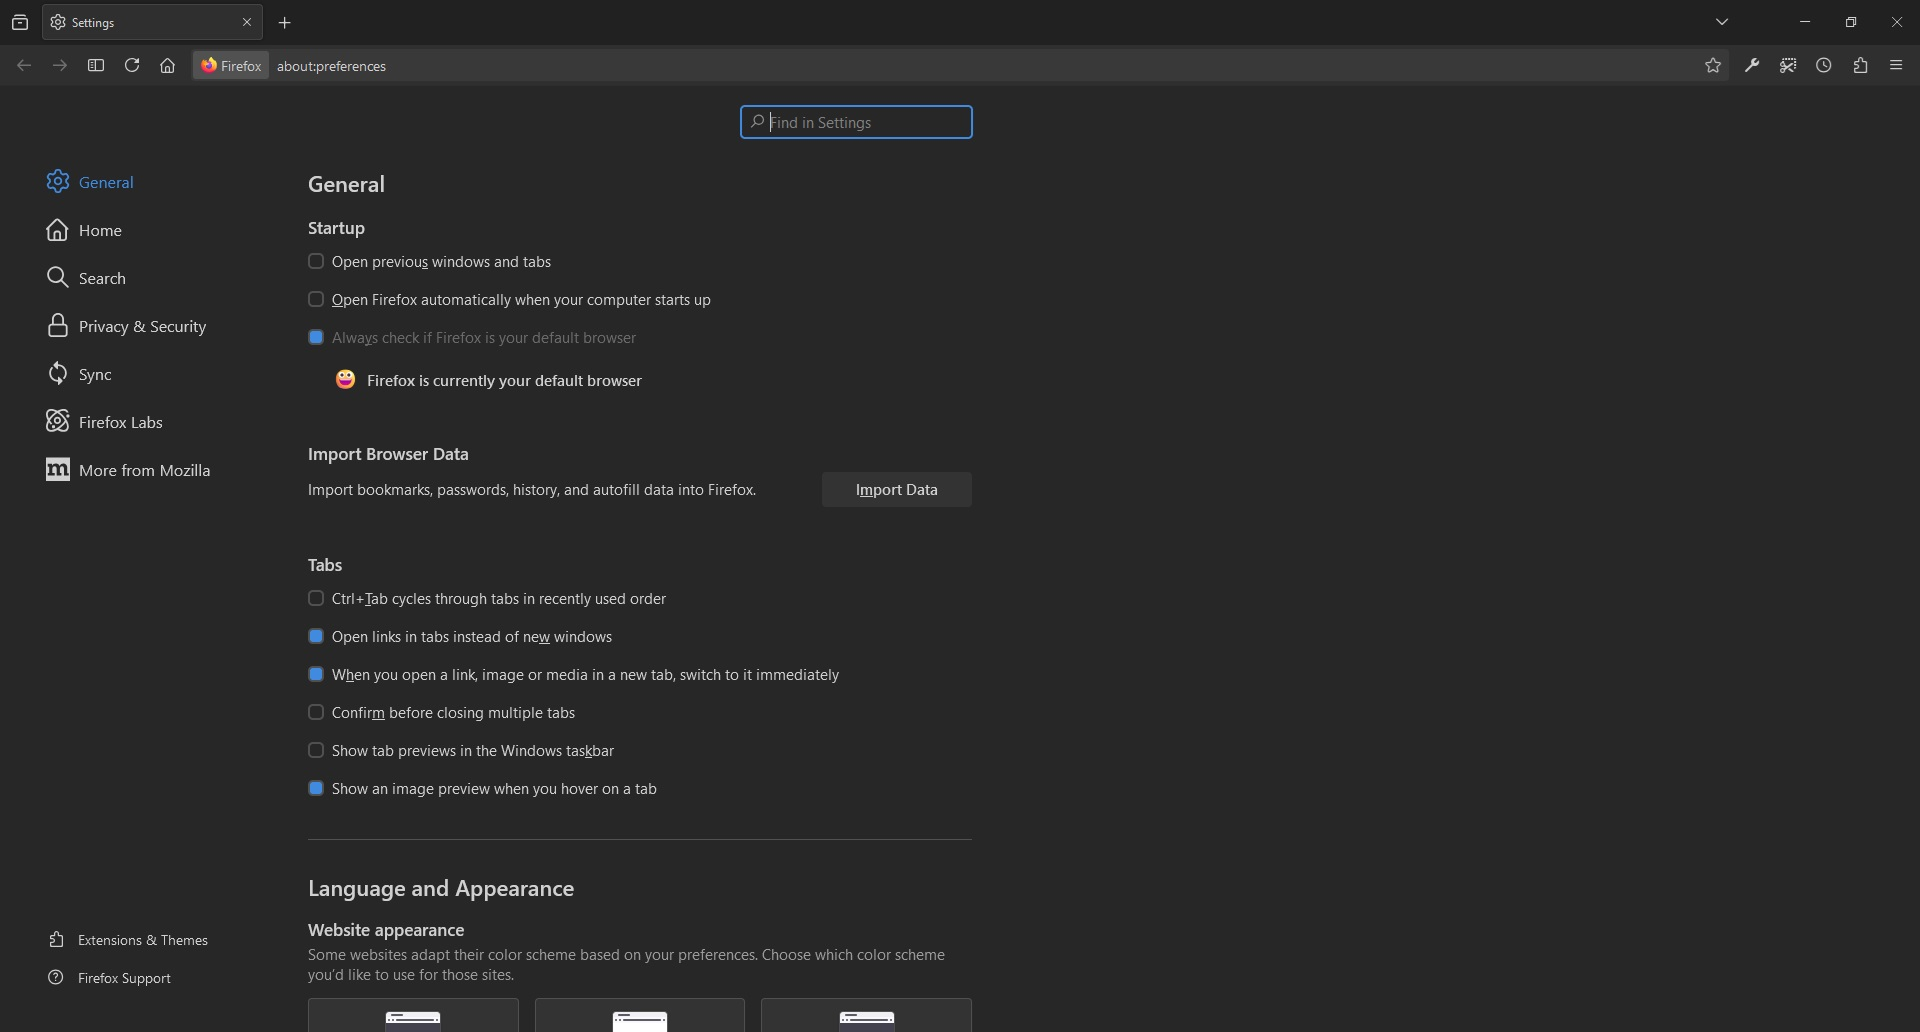
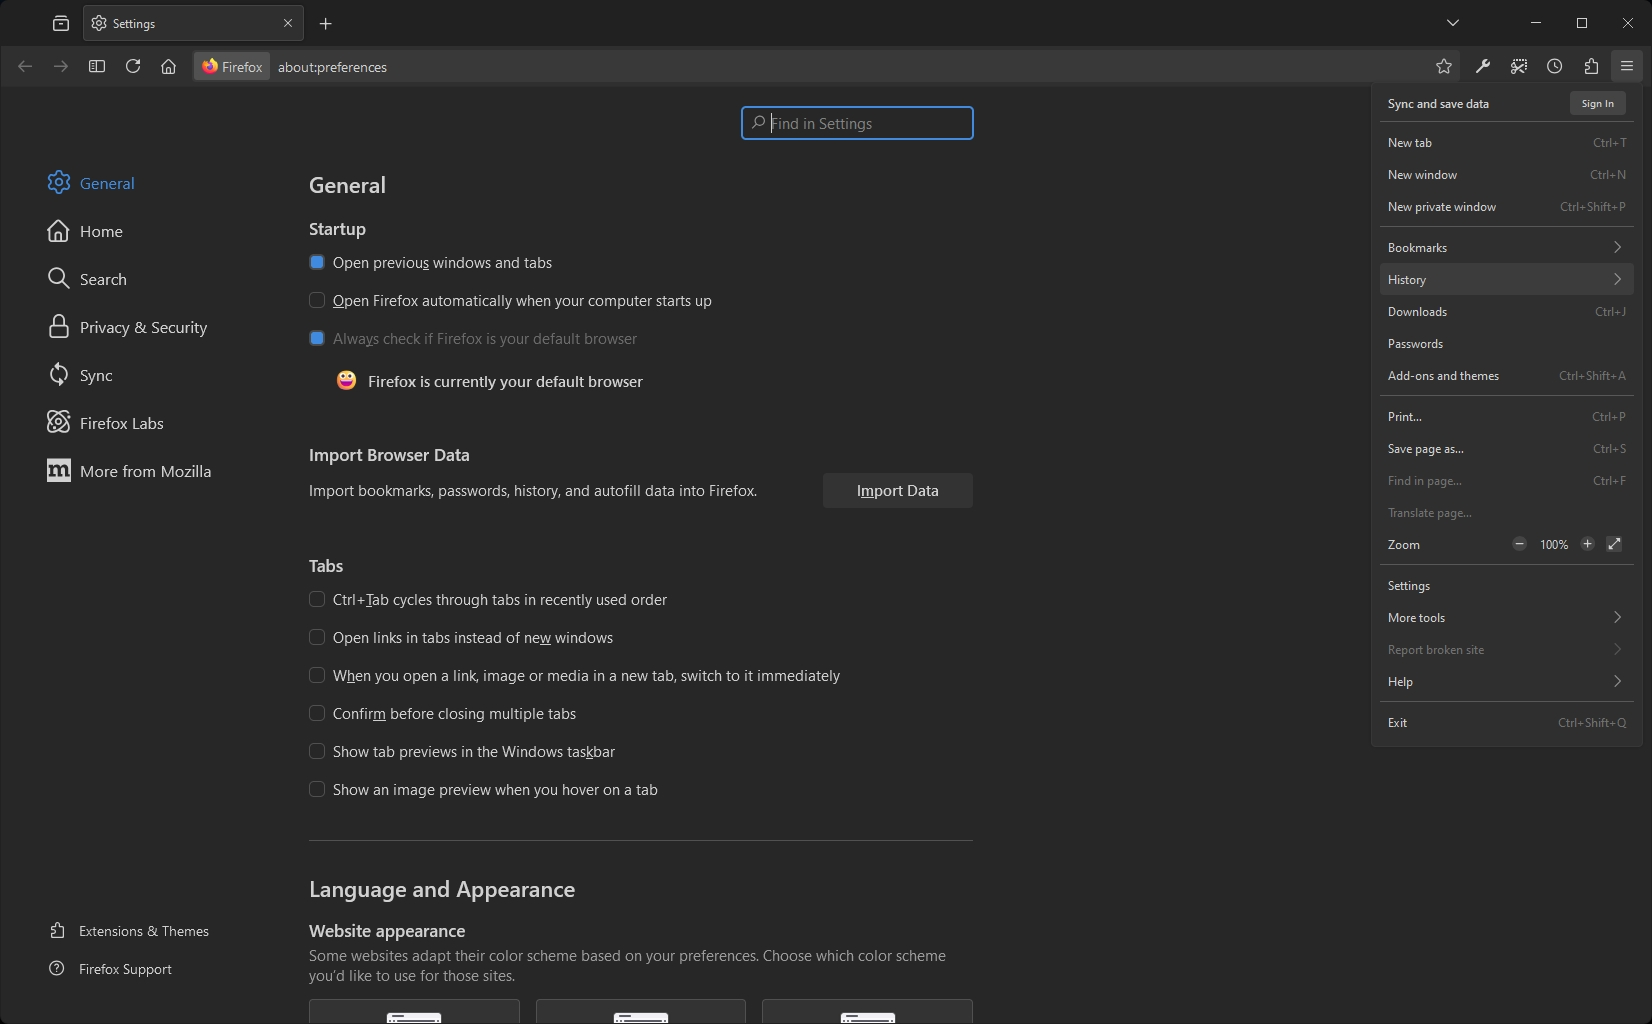
Improve checkboxes + new screenshots

diff --git a/chrome/userChrome.css b/chrome/userChrome.css
@@ -143,7 +143,7 @@ input[type=checkbox],
   appearance: none !important;
   border-radius: var(--theme-corner-radius) !important;
   background-color: var(--theme-back-color) !important;
-  border: 2px solid var(--theme-border-color) !important;
+  border: 1px solid var(--theme-border-color) !important;
 }
 
 .radio-check:hover,
@@ -165,6 +165,7 @@ input[type=radio][checked],
 input[type=checkbox]:checked,
 .checkbox-check[checked] {
   background-color: var(--theme-accent-color) !important;
+  border: 2px solid var(--theme-border-color-checked) !important;
 }
 
 richlistbox {

diff --git a/chrome/userContent.css b/chrome/userContent.css
@@ -57,7 +57,7 @@
     appearance: none !important;
     border-radius: var(--theme-corner-radius) !important;
     background-color: var(--theme-back-color) !important;
-    border: 2px solid var(--theme-border-color) !important;
+    border: 1px solid var(--theme-border-color) !important;
   }
   
   .radio-check:hover,
@@ -79,6 +79,7 @@
   input[type=checkbox]:checked,
   .checkbox-check[checked] {
     background-color: var(--theme-accent-color) !important;
+    border: 2px solid var(--theme-border-color-checked) !important;
   }
 }
 

diff --git a/chrome/themeConfig.css b/chrome/themeConfig.css
@@ -11,6 +11,7 @@
   --theme-border-color: #505050;
   --theme-border-color-menu: #373737;
   --theme-border-color-card: #414141;
+  --theme-border-color-checked: #494949;
   --theme-accent-color: #408BDF;
   --theme-accent-color-hover: #5da0ec;
   --theme-accent-color-active: #82bbfc;
